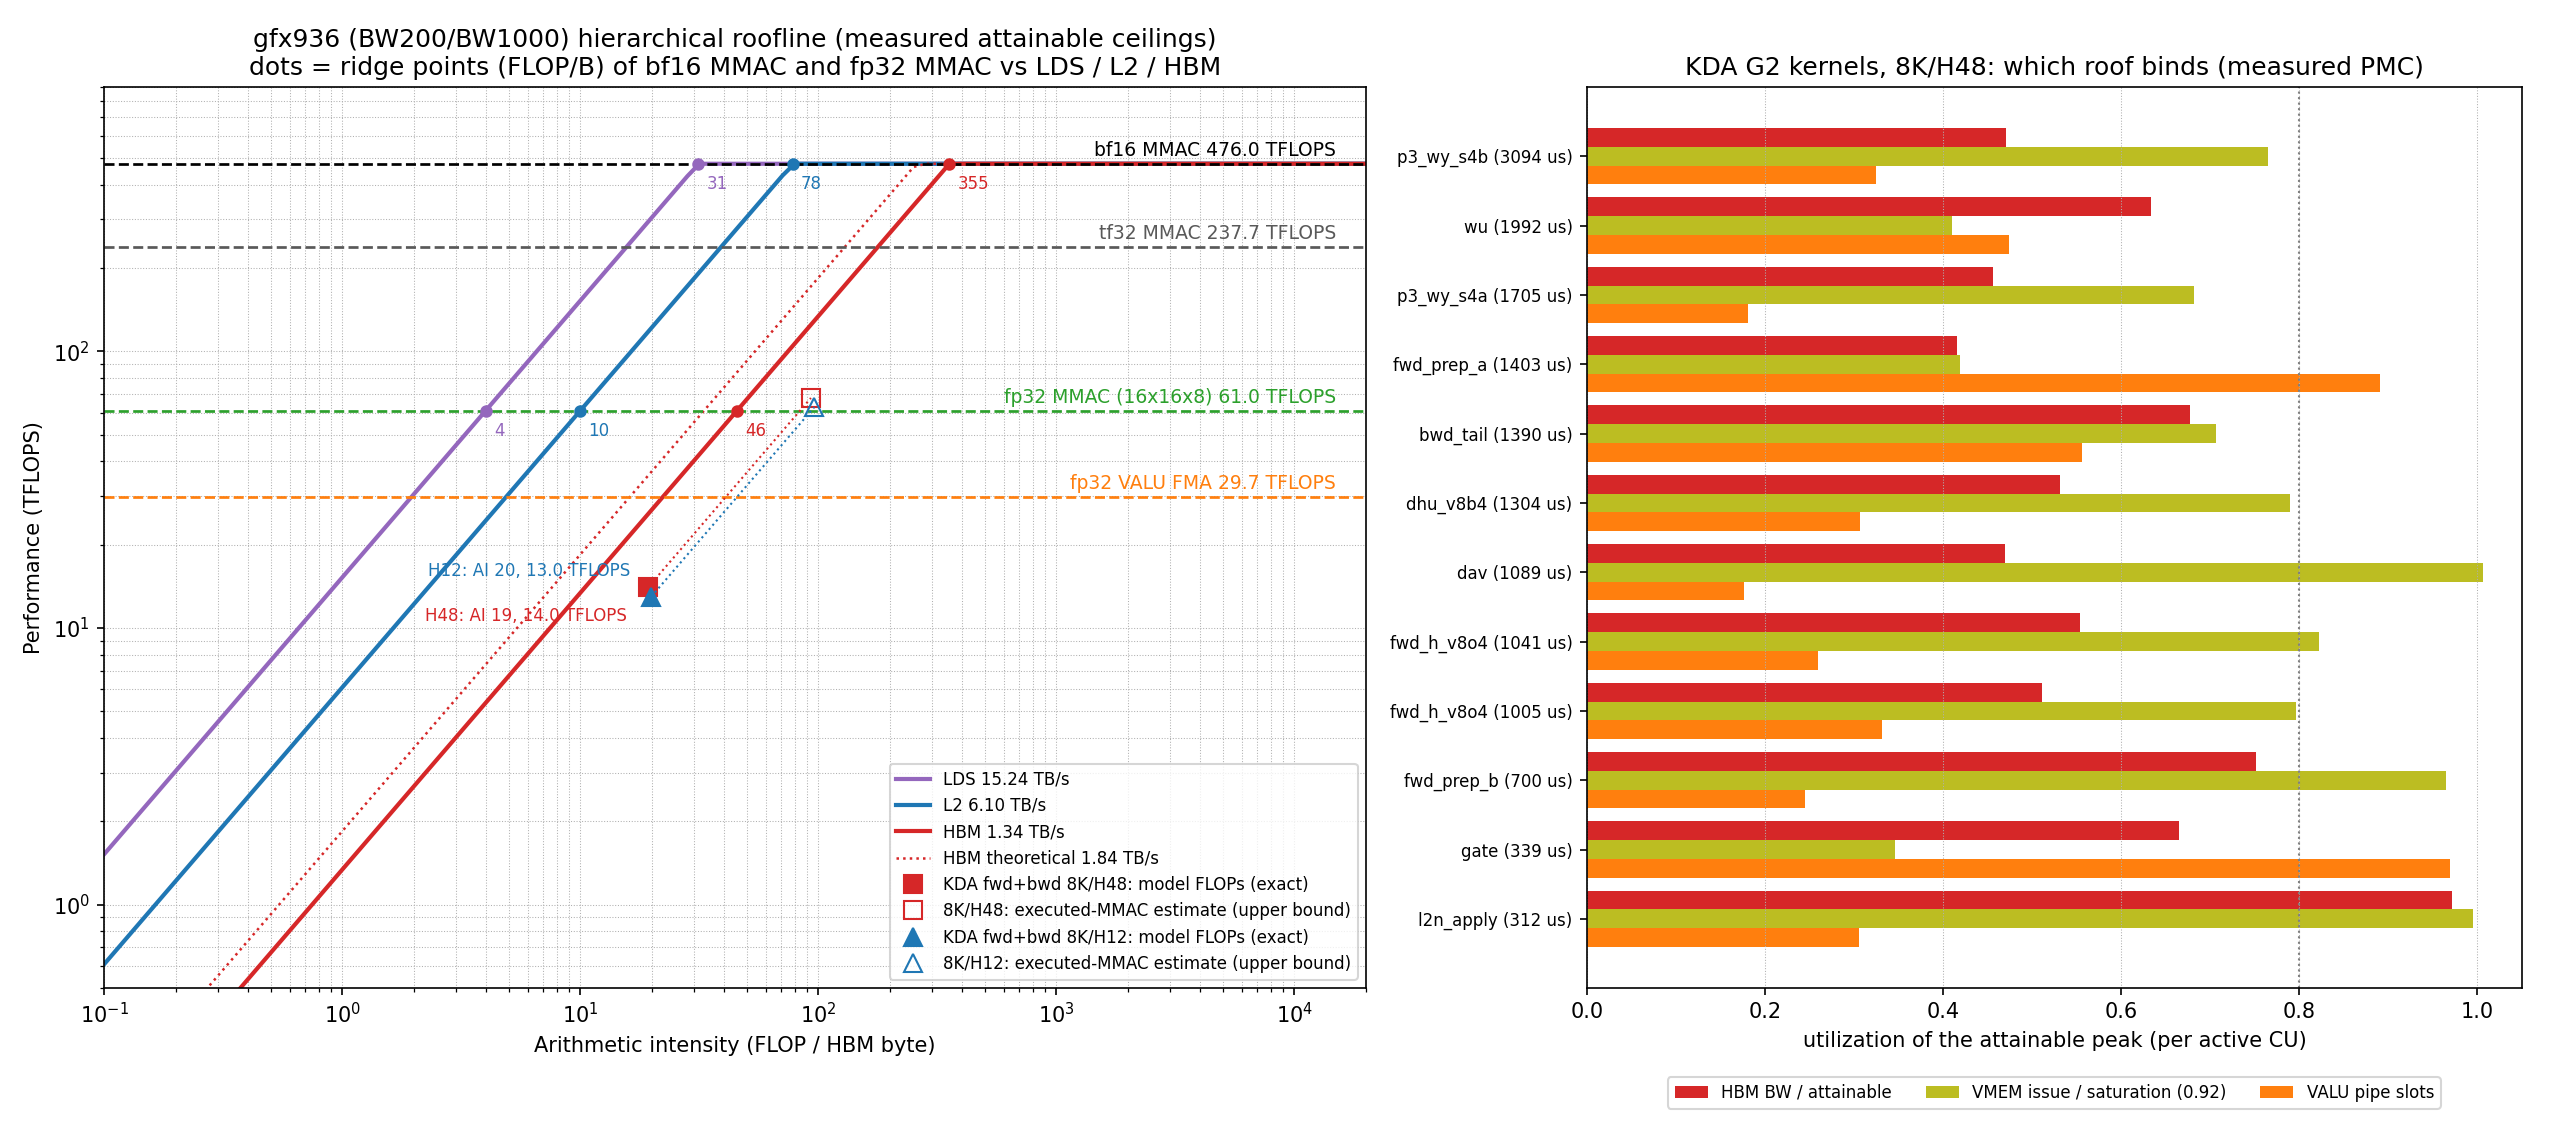
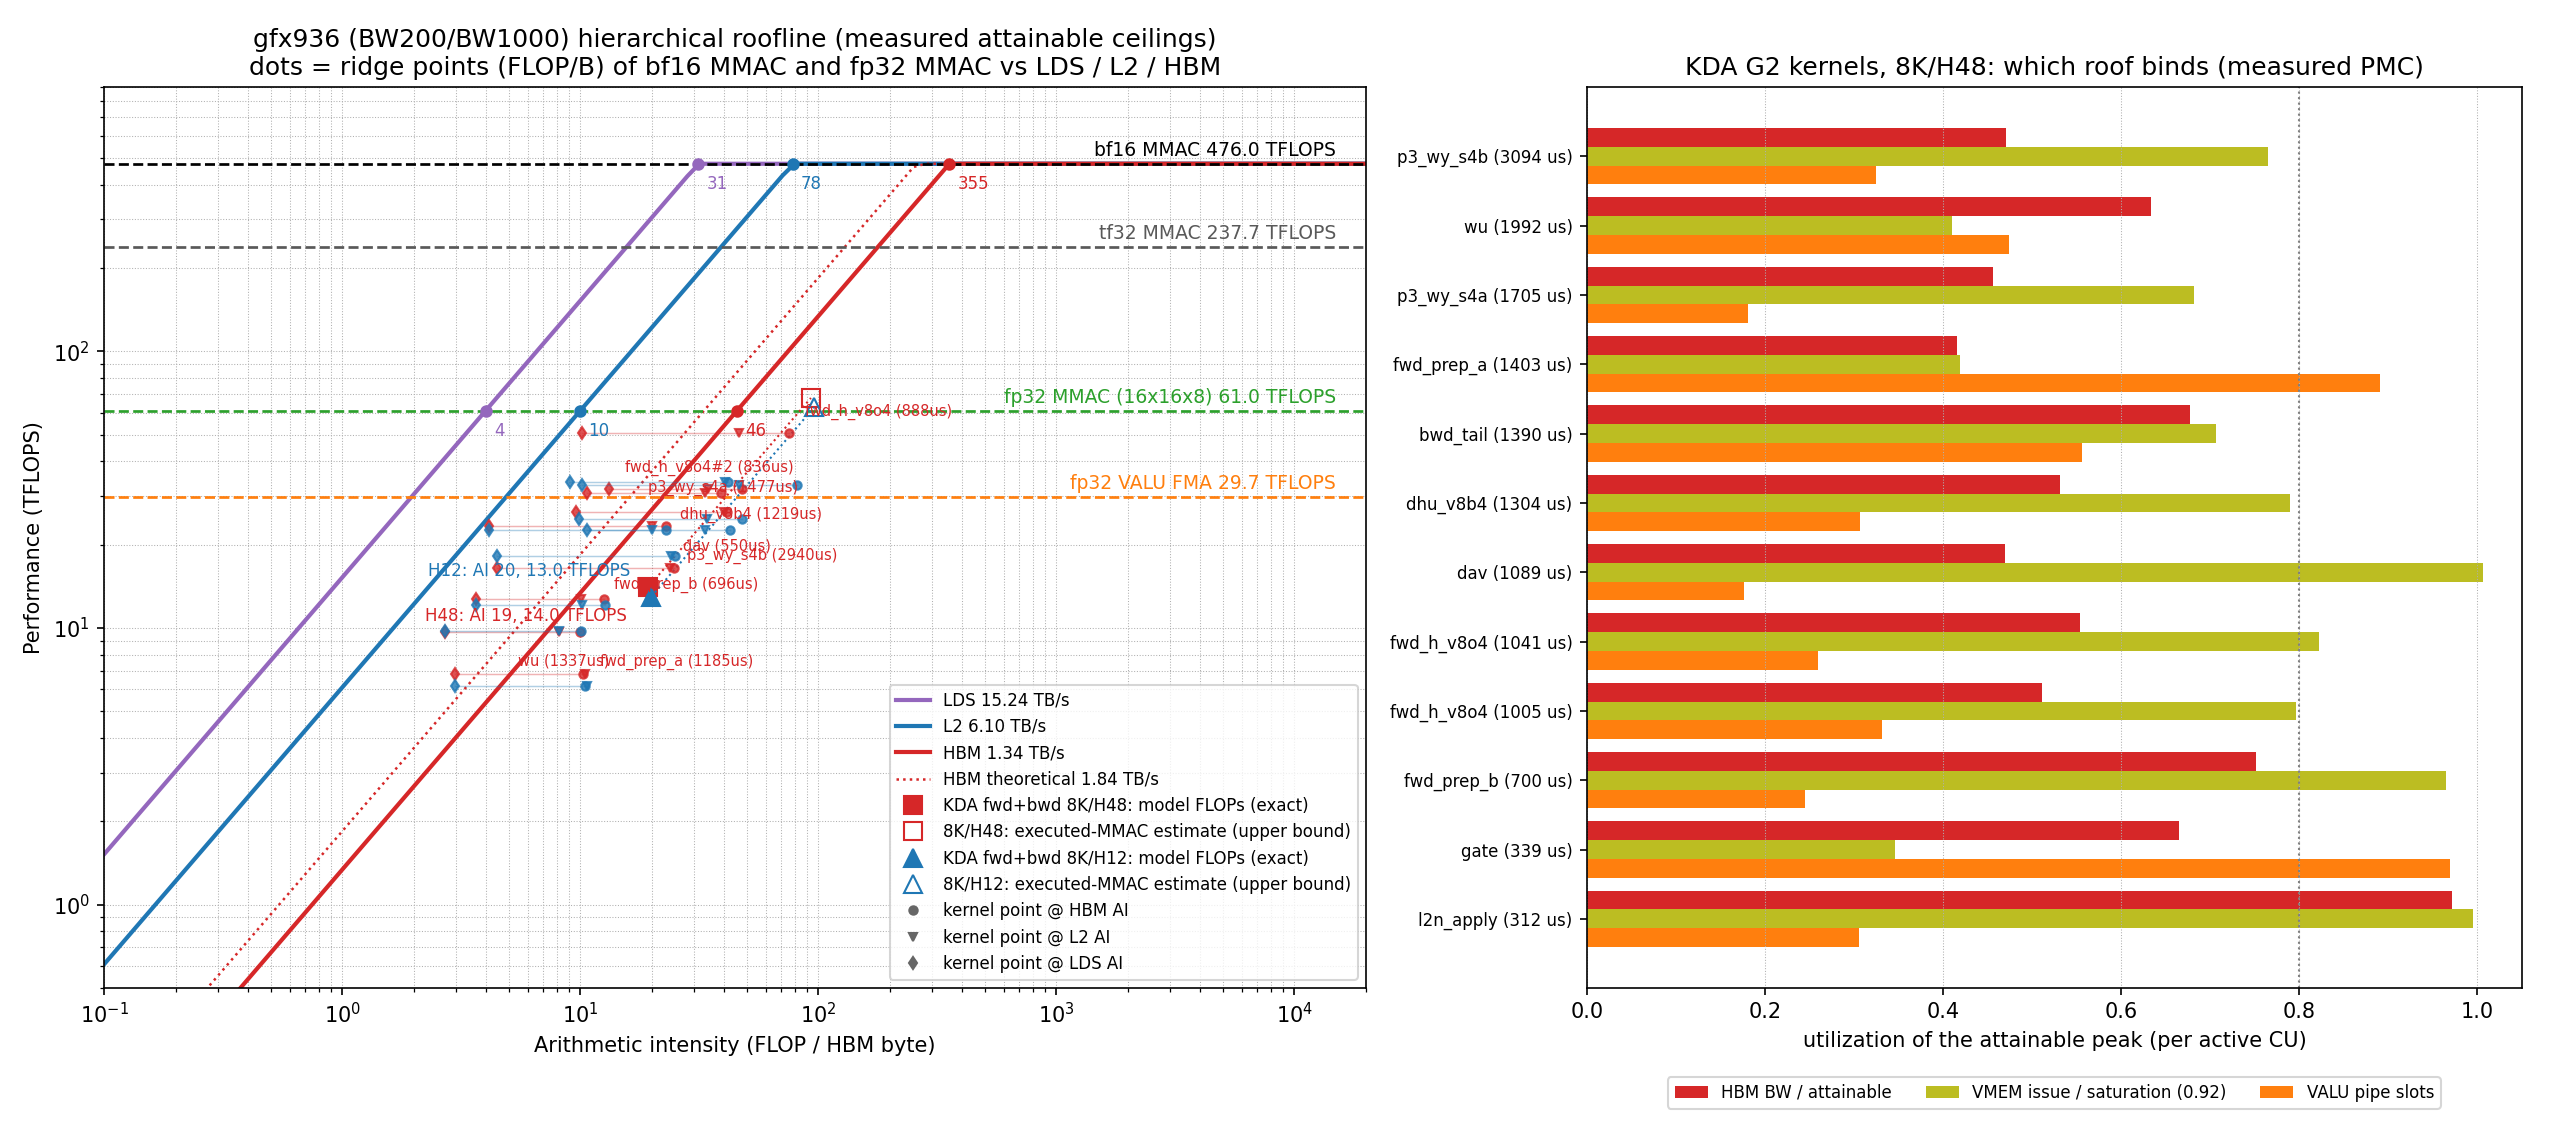
P-59 README: mark the masking explanation as inferred
Generated with [Devin](https://devin.ai)

diff --git a/examples/kda/hier_roofline.py b/examples/kda/hier_roofline.py
@@ -9,7 +9,12 @@ Operator  : results/kda-gfx936-20261010-ceiling/g2_8192_{48,12}_prod.waterlevel.
             The kra "executed MMAC" number is an ESTIMATE from VALU issue slots (slots - insts) x 8192;
             transcendentals (4 slots) and fp32 MMAC (4096 FLOP) inflate it, so it is drawn only as an
             upper-bound marker, and per-kernel FLOP points are NOT plotted.
-Kernels   : second panel = directly measured per-kernel utilizations (HBM, VMEM issue, VALU pipe).
+Per-kernel: second panel = directly measured utilizations (HBM, VMEM issue, VALU pipe); the
+            roofline panel additionally places every MMAC kernel at its LDS / L2 / HBM
+            arithmetic intensity (measured 2026-10-13 on bw7, hipprof custom counters:
+            FLOPs = exact bf16/fp32 MMAC split via SQ_INSTS_MMOP + SQ_ACTIVE_INST_MMOP;
+            LDS bytes = SQ_LDS_IDX_ACTIVE x 128B; L2 = TCC_REQ x 64B; HBM = calibrated EA formula;
+            raw: results/gfx936-hier-roofline-20261013/raw/, merged.json).
 Usage: python hier_roofline.py [out_dir]   (needs matplotlib)
 """
 import json
@@ -22,6 +27,17 @@ import matplotlib.pyplot as plt  # noqa: E402
 
 ROOT = os.path.abspath(os.path.join(os.path.dirname(__file__), "..", ".."))
 MACHINE = os.path.join(ROOT, "machines", "gfx936-bw1000.json")
+
+
+def _hier(h):
+    d = os.path.join(ROOT, "results", "gfx936-hier-roofline-20261013", "raw", "merged.json")
+    try:
+        return json.load(open(d))["8192_%d" % h]
+    except Exception:
+        return []
+
+
+HIER = {48: _hier(48), 12: _hier(12)}
 WL = os.path.join(ROOT, "results", "kda-gfx936-20261010-ceiling", "g2_8192_{h}_prod.waterlevel.json")
 
 
@@ -57,7 +73,8 @@ def load():
         by = sum(k["hbm_rd_MB"] + k["hbm_wr_MB"] for k in allk) * 1e6
         c = d["compute"]
         op = dict(t_s=t, bytes=by, model=c["model_GFLOP"] * 1e9, executed=c["executed_mmac_GFLOP"] * 1e9)
-        kernels[h] = (d.get("operator", ""), rows, op)
+        kernels[h] = (d.get("operator", ""), rows, op, HIER.get(h) or [])
+    return m, mem, comp, kernels
     return m, mem, comp, kernels
 
 
@@ -83,7 +100,7 @@ def plot(mem, comp, kernels, out):
             ax.annotate(f"{r:.0f}", (r, tf), textcoords="offset points", xytext=(4, -12),
                         fontsize=8, color=colors[name])
     mk = {48: ("s", "tab:red"), 12: ("^", "tab:blue")}
-    for h, (_, rows, op) in kernels.items():
+    for h, (_, rows, op, kpts) in kernels.items():
         m_, c_ = mk[h]
         x1, y1 = op["model"] / op["bytes"], op["model"] / op["t_s"] / 1e12
         x2, y2 = op["executed"] / op["bytes"], op["executed"] / op["t_s"] / 1e12
@@ -92,6 +109,37 @@ def plot(mem, comp, kernels, out):
         ax.plot([x1, x2], [y1, y2], ":", color=c_, lw=1)
         ax.annotate(f"H{h}: AI {x1:.0f}, {y1:.1f} TFLOPS", (x1, y1), textcoords="offset points",
                     xytext=(-10, -16 if h == 48 else 10), fontsize=8, color=c_, ha="right")
+    # per-kernel hierarchical points: same y (achieved TFLOPS), x = AI vs each level
+    pc = {48: "tab:red", 12: "tab:blue"}
+    for h, (_, _, _, kpts) in kernels.items():
+        for k in kpts:
+            f = k["gflop"] * 1e9
+            t = k["t_us"] * 1e-6
+            if f < 1e9:
+                continue
+            y = f / t / 1e12
+            ai = {"HBM": f / max(1, k["hbm_MB"]) / 1e-6 / 1e0 if k["hbm_MB"] else 0,
+                  "L2": f / (k["l2_MB"] * 1e6) if k["l2_MB"] else 0,
+                  "LDS": f / (k["lds_MB"] * 1e6) if k["lds_MB"] else 0}
+            ai = {"HBM": f / (k["hbm_MB"] * 1e6) if k["hbm_MB"] else 0,
+                  "L2": f / (k["l2_MB"] * 1e6) if k["l2_MB"] else 0,
+                  "LDS": f / (k["lds_MB"] * 1e6) if k["lds_MB"] else 0}
+            lvl_pts = [(ai["LDS"], "d"), (ai["L2"], "v"), (ai["HBM"], "o")]
+            xs3 = [a_ for a_, _ in lvl_pts if a_ > 0]
+            if len(xs3) > 1:
+                ax.plot(sorted(xs3), [y] * len(xs3), "-", color=pc[h], lw=0.7, alpha=0.35)
+            for a_, m_ in lvl_pts:
+                if a_ > 0:
+                    ax.plot([a_], [y], m_, color=pc[h], ms=4, alpha=0.8)
+            if h == 48 and k["t_us"] > 500:
+                off = {"p3_wy_s4b": (6, 4), "p3_wy_s4a": (-38, 10), "dhu_v8b4": (-30, -14),
+                       "fwd_h_v8o4": (8, 8), "fwd_h_v8o4#2": (-46, 10), "wu": (-30, -16),
+                       "dav": (8, -12), "fwd_prep_a": (8, 4)}.get(k["short"], (5, 5))
+                ax.annotate(f"{k['short']} ({k['t_us']:.0f}us)", (ai["HBM"], y),
+                            textcoords="offset points", xytext=off, fontsize=7, color=pc[h])
+    ax.plot([], [], "o", color="0.4", ms=4, label="kernel point @ HBM AI")
+    ax.plot([], [], "v", color="0.4", ms=4, label="kernel point @ L2 AI")
+    ax.plot([], [], "d", color="0.4", ms=4, label="kernel point @ LDS AI")
     ax.set_xscale("log"); ax.set_yscale("log")
     ax.set_xlim(0.1, 2e4); ax.set_ylim(0.5, 900)
     ax.set_xlabel("Arithmetic intensity (FLOP / HBM byte)")
@@ -101,7 +149,7 @@ def plot(mem, comp, kernels, out):
     ax.grid(True, which="both", ls=":", lw=0.5)
     ax.legend(loc="lower right", fontsize=8)
     # panel 2: measured per-kernel utilization, 8K/H48 (sorted by time)
-    _, rows, _ = kernels[48]
+    _, rows, _, _ = kernels[48]
     rows = sorted(rows, key=lambda r: -r["t_us"])
     ys = range(len(rows))
     w = 0.27
@@ -134,7 +182,7 @@ def table(m, mem, comp, kernels, out):
     L += ["", "## KDA 算子（fwd+bwd）在 HBM roofline 上的位置", "",
           "| 形态 | 模型 FLOPs | HBM 流量 | kernel 时间 | 算术强度（模型 FLOPs） | 实际算力 | 实际 HBM 带宽 | 执行 MMAC 估计（上界） |",
           "|---|---|---|---|---|---|---|---|"]
-    for h, (opname, rows, op) in kernels.items():
+    for h, (opname, rows, op, kpts) in kernels.items():
         L.append(f"| 8K/H{h} | {op['model'] / 1e9:.1f} GFLOP | {op['bytes'] / 1e9:.2f} GB | {op['t_s'] * 1e3:.2f} ms | "
                  f"{op['model'] / op['bytes']:.1f} FLOP/B | {op['model'] / op['t_s'] / 1e12:.1f} TFLOPS | "
                  f"{op['bytes'] / op['t_s'] / 1e9:.0f} GB/s | AI {op['executed'] / op['bytes']:.0f}，{op['executed'] / op['t_s'] / 1e12:.1f} TFLOPS |")

diff --git a/examples/kda/hier_pmc/kda_run.py b/examples/kda/hier_pmc/kda_run.py
@@ -1,8 +1,3 @@
-# Pre-import the module that segfaults when first executed from inside fla's
-# import chain (fla.ops.nsa.utils -> flash_attn.utils.sparse_utils), then run
-# kda_iter. This keeps the production script untouched and identical semantics
-# (fla_prune_ns4.apply still runs inside the bench source).
-import flash_attn.utils.sparse_utils  # noqa: F401
 import runpy
 import sys
 sys.argv = ["kda_iter"] + sys.argv[1:]

diff --git a/results/gfx936-hier-roofline-20261013/README.md b/results/gfx936-hier-roofline-20261013/README.md
@@ -52,9 +52,52 @@
 | fwd_prep_b | 700 | 705 | 75% | 97% | 25% | B.memory.vmem_issue |
 | gate | 339 | 302 | 66% | 35% | 97% | B.compute.valu |
 | l2n_apply | 312 | 406 | 97% | 100% | 30% | B.memory.hbm |
+## 逐 kernel 分层落点（2026-10-13 bw7 实测，生产 g2_r5，iters=1 的最后一个窗口）
 
-## 复现
+FLOPs = 精确 MMAC（由 SQ_INSTS_MMOP 与 SQ_ACTIVE_INST_MMOP 解出 bf16/fp32 混合，标定式 n_bf=(8I−A)/6）；
+LDS 字节 = SQ_LDS_IDX_ACTIVE×128B（含 bank 冲突占用的有效周期）；L2 = TCC_REQ×64B；HBM = EA 标定式。
 
-`python examples/kda/hier_roofline.py`（需要 matplotlib；读取 `machines/gfx936-bw1000.json` 与 `results/kda-gfx936-20261010-ceiling/g2_8192_{48,12}_prod.waterlevel.json`）。
+### 8K / H48（窗口 13.14 ms，HBM 10.31 GB）
 
-说明：kra 的“执行 MMAC FLOPs”由 VALU 发射槽估计（slots − insts，按 8192 FLOP/条），超越函数（4 槽）和 fp32 MMAC 会使其偏大，只作为上界画出；不画逐 kernel 的 FLOP 落点，逐 kernel 改看右图的实测利用率。
+| kernel | µs | GFLOP | LDS GB/s (AI) | L2 GB/s (AI) | HBM GB/s (AI) | L2 hit | LDS 冲突周期/指令 |
+|---|---|---|---|---|---|---|---|
+| p3_wy_s4b | 2940 | 48.3 |  3673 (  4.5) |   689 ( 23.8) |   663 ( 24.8) | 13% | 1.18 |
+| p3_wy_s4a | 1477 | 38.7 |  2736 (  9.6) |   650 ( 40.3) |   635 ( 41.2) | 13% | 0.80 |
+| wu | 1337 | 12.9 |  3583 (  2.7) |  1189 (  8.1) |   964 ( 10.0) | 25% | 2.51 |
+| bwd_tail | 1312 | 0.0 |  2551 (  0.0) |   993 (  0.0) |   983 (  0.0) | 9% | 0.08 |
+| dhu_v8b4 | 1219 | 38.7 |  2400 ( 13.2) |   926 ( 34.2) |   664 ( 47.8) | 42% | 0.27 |
+| fwd_prep_a | 1185 | 8.1 |  2278 (  3.0) |   653 ( 10.4) |   660 ( 10.3) | 2% | 0.05 |
+| fwd_h_v8o4 | 888 | 45.1 |  4990 ( 10.2) |  1095 ( 46.4) |   676 ( 75.1) | 65% | 1.51 |
+| fwd_h_v8o4#2 | 836 | 25.8 |  2894 ( 10.7) |   923 ( 33.4) |   790 ( 39.0) | 38% | 0.31 |
+| fwd_prep_b | 696 | 8.9 |  3499 (  3.6) |  1269 ( 10.0) |  1013 ( 12.6) | 20% | 0.67 |
+| dav | 550 | 12.9 |  5676 (  4.1) |  1174 ( 20.0) |  1020 ( 23.0) | 13% | 4.00 |
+| gate | 342 | 0.0 |    92 (  0.0) |   751 (  0.0) |   884 (  0.0) | 2% | 0.00 |
+| l2n_apply | 311 | 0.0 | — |  1316 (  0.0) |  1305 (  0.0) | 1% | 0.00 |
+| torch:32elementwise_kernel_man | 16 | 0.0 | — |   309 (  0.0) |   401 (  0.0) | 2% | 0.00 |
+| torch:32elementwise_kernel_man#2 | 15 | 0.0 | — |   420 (  0.0) |   410 (  0.0) | 3% | 0.00 |
+| exp2 | 13 | 0.0 | — |   377 (  0.0) |   498 (  0.0) | 67% | 0.00 |
+| bwd_tail_reduce | 9 | 0.0 | — |   367 (  0.0) |   357 (  0.0) | 3% | 0.00 |
+
+### 8K / H12（窗口 3.49 ms，HBM 2.54 GB）
+
+| kernel | µs | GFLOP | LDS GB/s (AI) | L2 GB/s (AI) | HBM GB/s (AI) |
+|---|---|---|---|---|---|
+| p3_wy_s4b | 665 | 12.1 |  4056 (  4.5) |   753 ( 24.1) |   729 ( 24.9) |
+| dhu_v8b | 391 | 9.7 |  2517 (  9.8) |   723 ( 34.2) |   518 ( 47.8) |
+| fwd_h_v8o4 | 343 | 11.3 |  3232 ( 10.2) |   710 ( 46.3) |   406 ( 81.0) |
+| wu | 330 | 3.2 |  3626 (  2.7) |  1200 (  8.1) |   969 ( 10.1) |
+| bwd_tail | 330 | 0.0 |  2539 (  0.0) |   977 (  0.0) |   965 (  0.0) |
+| fwd_prep_a | 327 | 2.0 |  2065 (  3.0) |   580 ( 10.6) |   592 ( 10.4) |
+| p3_wy_s4a | 287 | 9.7 |  3736 (  9.0) |   833 ( 40.4) |   809 ( 41.6) |
+| fwd_h_v8o4#2 | 285 | 6.4 |  2123 ( 10.7) |   677 ( 33.4) |   533 ( 42.4) |
+| fwd_prep_b | 183 | 2.2 |  3325 (  3.6) |  1194 ( 10.1) |   953 ( 12.7) |
+| dav | 143 | 3.2 |  5466 (  4.1) |  1131 ( 20.0) |   982 ( 23.0) |
+| gate | 93 | 0.0 |    85 (  0.0) |   693 (  0.0) |   814 (  0.0) |
+| l2n_apply | 79 | 0.0 | — |  1293 (  0.0) |  1281 (  0.0) |
+| torch:32elementwise_kernel_man#2 | 11 | 0.0 | — |   152 (  0.0) |   139 (  0.0) |
+| torch:32elementwise_kernel_man | 10 | 0.0 | — |   135 (  0.0) |   161 (  0.0) |
+| bwd_tail_reduce | 10 | 0.0 | — |    85 (  0.0) |     1 (  0.0) |
+| exp2 | 5 | 0.0 | — |   238 (  0.0) |   307 (  0.0) |
+
+采集：`examples/kda/hier_pmc/`（pmc_cal.hip 标定、run_kda.sh 四次 hipprof、HIPPROF_INPUT_FILE 自定义计数器；
+注意 PYTHONPATH 必须 `/opt/kda_env` 在前，用源码树 fla 遮蔽 site-packages 里会让 g2 段错误的那份）。

diff --git a/results/kda-gfx936-20261014-p59-vt/README.md b/results/kda-gfx936-20261014-p59-vt/README.md
@@ -23,5 +23,5 @@
 
 ## 结论
 - **不合入**。前向递推的变化在 −1.8% 到 +1.6% 之间，都在离散度以内；prep_b 稳定慢约 1%，算子总时间不变。
-- **模拟器高估了约 5 倍以上**（预测 7.6%）。它按每条 `ds_write_b16` 8 个周期的发射代价计价，但实测说明这段发射被同一 CU 上其他 wave 的工作掩盖了，不在串行链上。这和 P-57 一样，属于“小幅收益模型批准不了”的情况。
-- **新增规则 R50**：模拟器给出的收益如果来自**非关键路径上的发射代价**（LDS 写、地址运算这类可被其他 wave 掩盖的指令），先用 SQTT 确认这段指令确实落在串行链上，再写探针。P-58 有收益，是因为它去掉的 VALU 地址运算就在每步的依赖链上（TP8 每 CU 只有一个 CTA）。
+- **模拟器高估了约 5 倍以上**（预测 7.6%）。它按每条 `ds_write_b16` 8 个周期的发射代价计价。推测（未用 SQTT 核实）这段发射被同一 CU 上其他 wave 的工作掩盖了，不在串行链上。这和 P-57 一样，属于“小幅收益模型批准不了”的情况。
+- **新增规则 R50**：模拟器给出的收益如果来自**非关键路径上的发射代价**（LDS 写、地址运算这类可被其他 wave 掩盖的指令），先用 SQTT 确认这段指令确实落在串行链上，再写探针。对照：P-58 在 TP8（每 CU 一个 CTA）上有收益，推测是因为它去掉的 VALU 地址运算落在每步的依赖链上。
